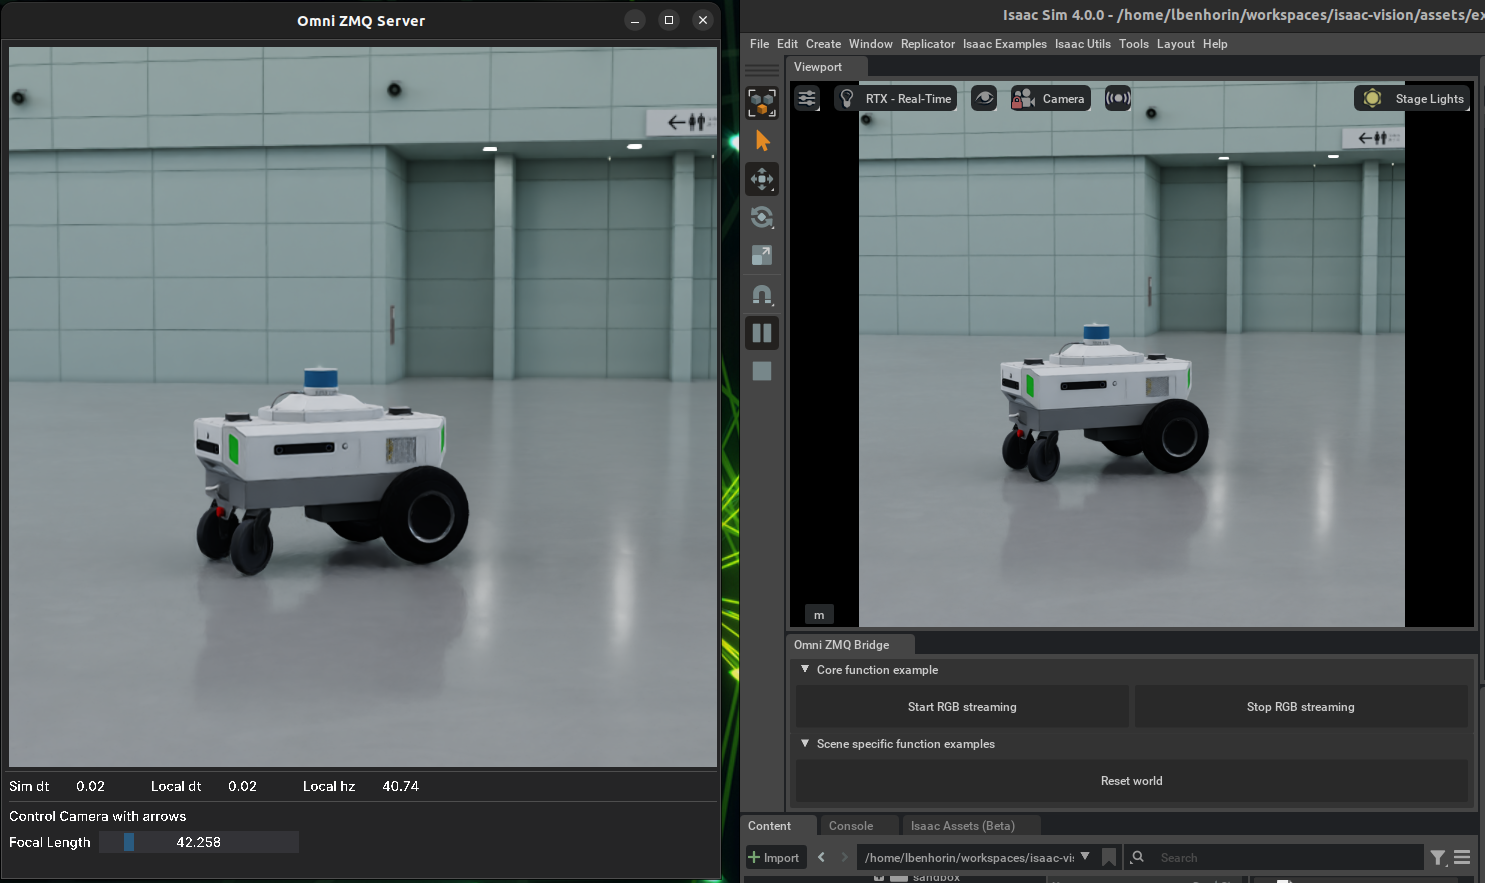
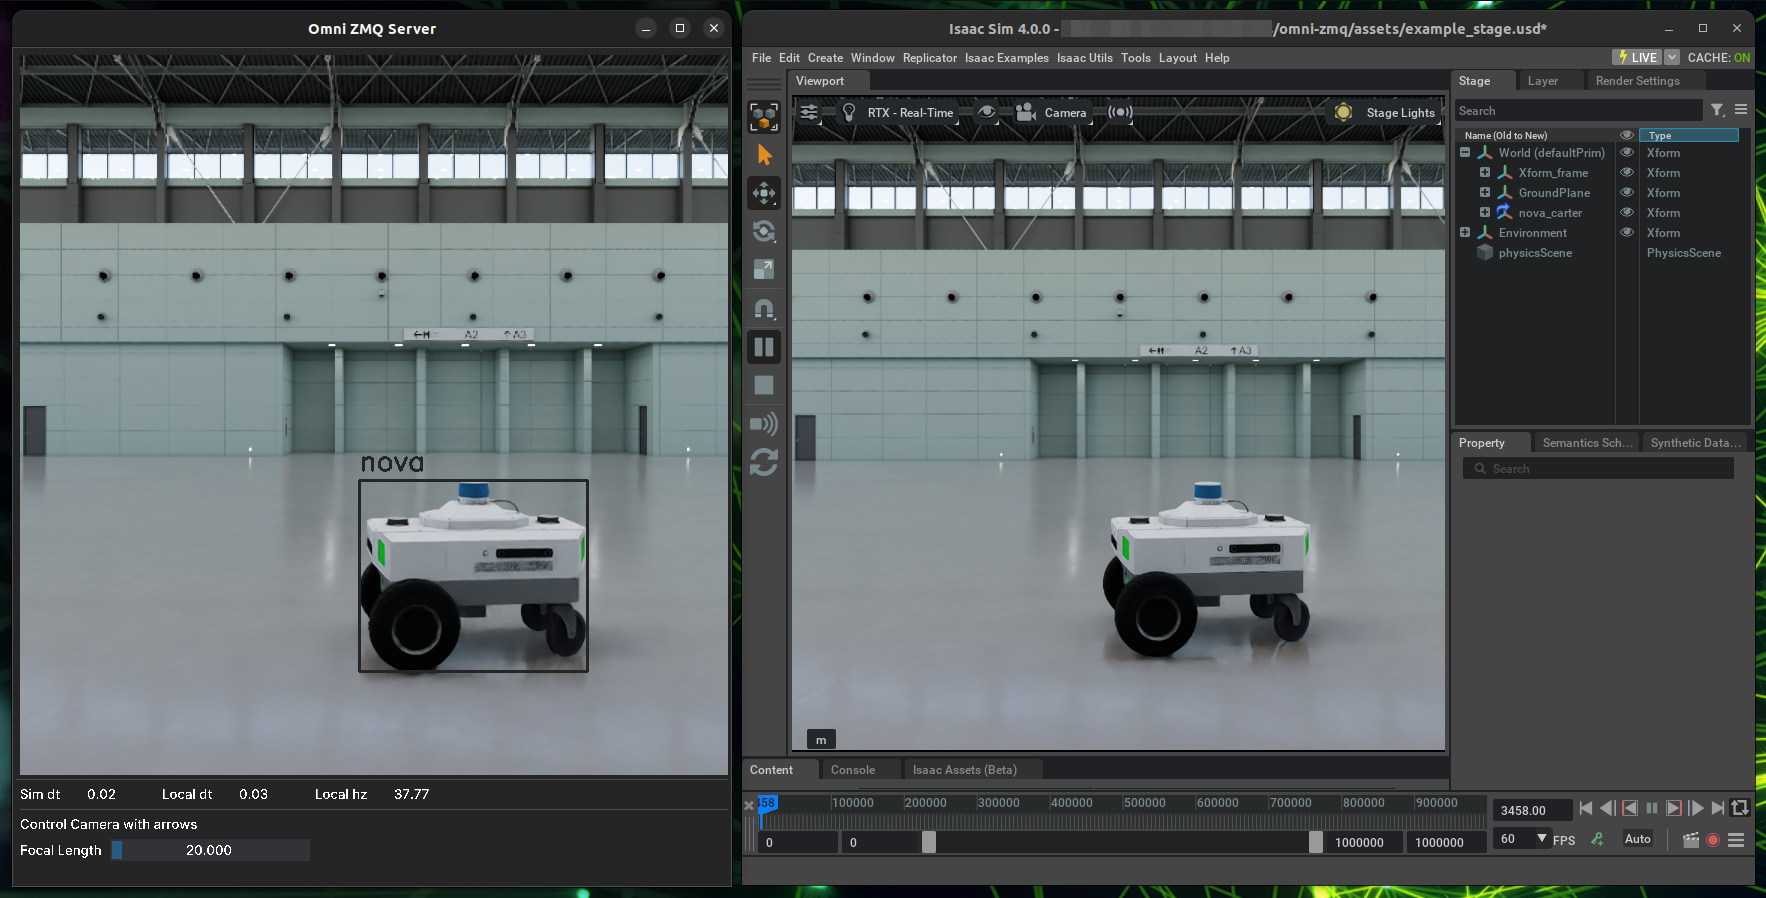
add GT selection new preview image

diff --git a/omni-zmq-server/src/server.py b/omni-zmq-server/src/server.py
@@ -99,6 +99,13 @@ class ZMQServerWindow:
                 dpg.add_separator()
                 dpg.add_text("Control Camera with arrows")
                 with dpg.group(horizontal=True):
+                    dpg.add_text("Ground Truth")
+                    dpg.add_combo(
+                        items=["RGB", "BBOX2D"], 
+                        default_value="RGB", 
+                        width=100,
+                        tag="ground_truth_mode"
+                    )
                     dpg.add_text("Focal Length")
                     dpg.add_slider_float(
                         tag="zoom",
@@ -197,9 +204,10 @@ class ZMQServerWindow:
             self.dimmention, self.dimmention, 4
         )
 
-        img_with_boxes = self.draw_bounding_boxes(img_array, bbox2d_data)
+        if dpg.get_value("ground_truth_mode") == "BBOX2D":
+            img_array = self.draw_bounding_boxes(img_array, bbox2d_data)
 
-        np.divide(img_with_boxes, 255.0, out=self.texture_data)
+        np.divide(img_array, 255.0, out=self.texture_data)
 
         local_dt = time.time() - self.last_time
         self.last_time = time.time()
